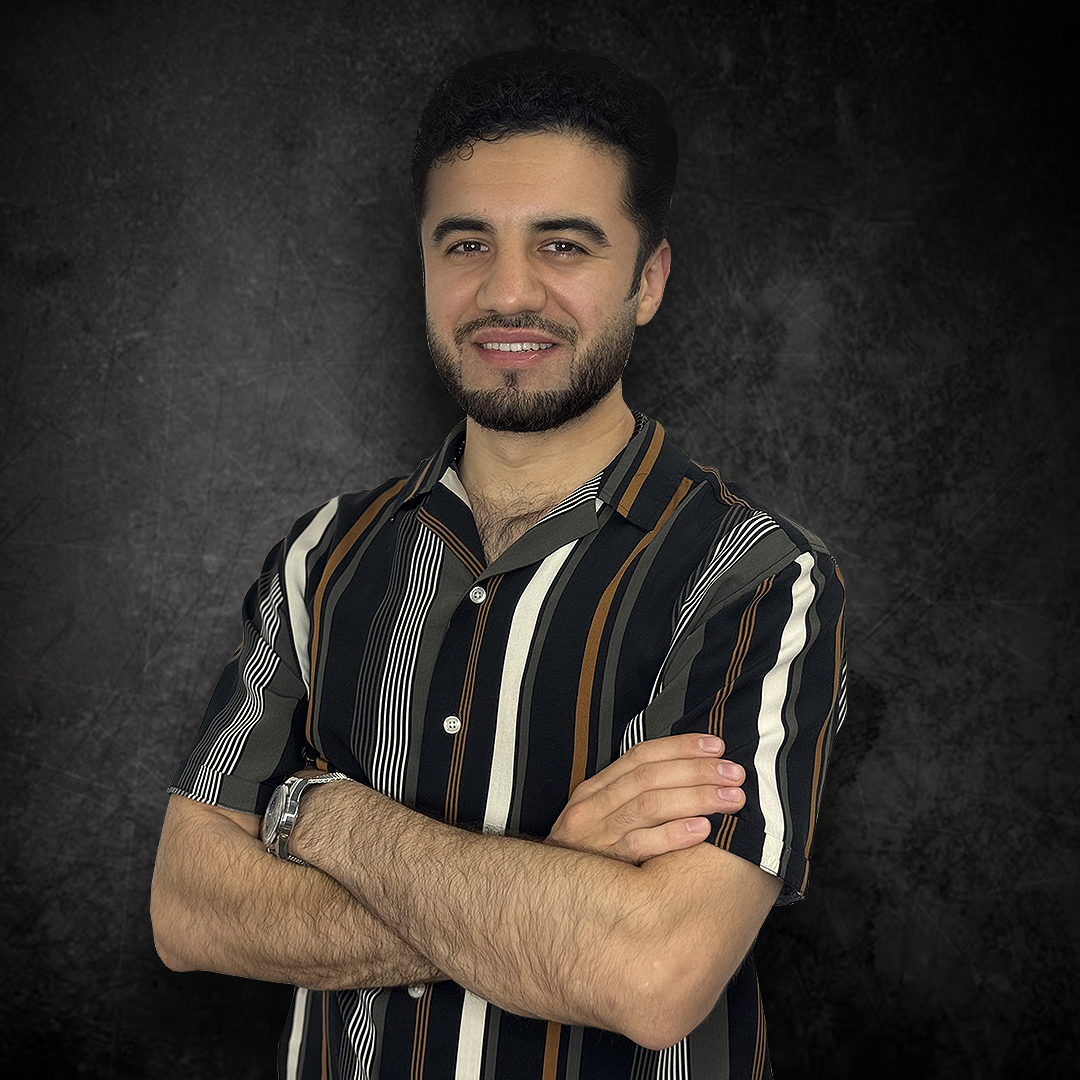
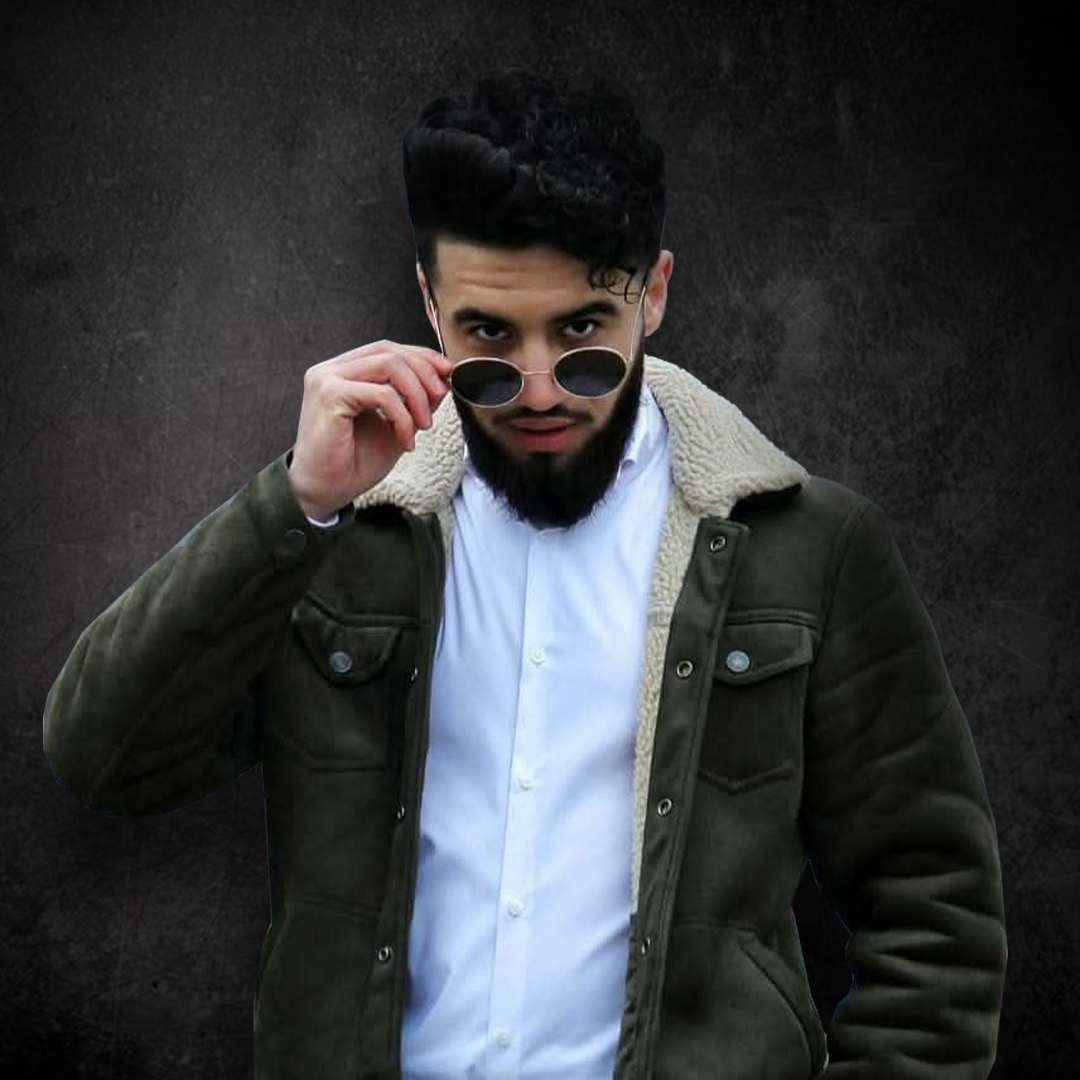
Update instructor's photo and improve the main page's messaging
Replaced Ali Karimov's photo and updated hero section content in replit.md.

Replit-Commit-Author: Agent
Replit-Commit-Session-Id: 74fe0a3b-a9d0-497a-b4df-e9096ec3f952
Replit-Commit-Screenshot-Url: https://storage.googleapis.com/screenshot-production-us-central1/c96e128e-ca29-4695-8ecc-16e01638a419/c3da31da-0823-4d5e-b29c-18c3790db301.jpg

diff --git a/replit.md b/replit.md
@@ -160,6 +160,11 @@ Preferred communication style: Simple, everyday language.
   - Ukrainian: Emphasizes exclusive positioning with quality certifications and teacher credentials
 - Fixed mobile language selection dropdown visibility issue by positioning dropdown above button in mobile menu
 - Enhanced language switcher with improved click-outside handling and mobile-specific positioning
+- Updated hero section content in all three languages:
+  - Changed "Fryzjerska" to "Barberingu" in Polish title
+  - Replaced hero description with academy's unique qualifications text
+  - Applied consistent messaging across Polish, English, and Ukrainian versions
+- Updated Ali Karimov's instructor photo with new professional image
 - Updated hero section text across all three languages:
   - Changed "Fryzjerska" to "Barberingu" in Polish title (K&K Akademia Barberingu)
   - Updated hero description in all languages to emphasize academy's unique qualifications instead of generic education message
